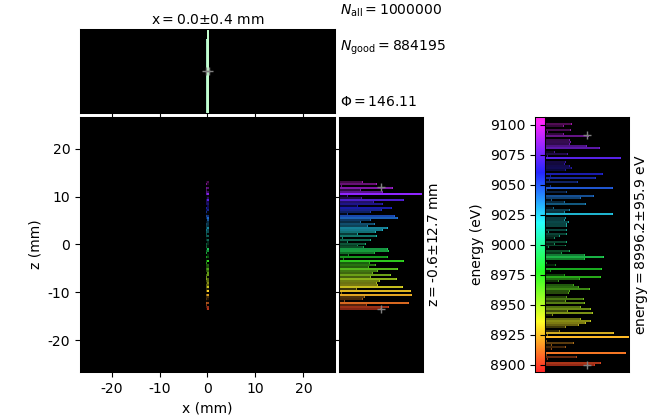
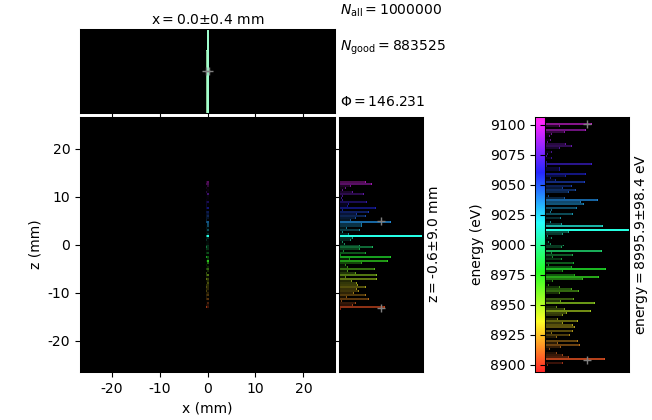
added alignment interface and grid search

diff --git a/full_simulator/simple_optimizer.py b/full_simulator/simple_optimizer.py
@@ -1,0 +1,44 @@
+import numpy as np
+
+def random_search(task, n_trials=100):
+    """Simple random optimizer to test the task interface."""
+    bounds = task.get_bounds()
+    best_dofs = None
+    best_cost = float("inf")
+
+    for _ in range(n_trials):
+        candidate = [np.random.uniform(low, high) for (low, high) in bounds]
+        task.set_dofs(candidate)
+        cost = task.evaluate_objective()
+
+        print(f"Random trial {_} DoFs: {candidate}")
+        print(f"Random trial {_} cost: {cost}")
+        print("--------------------------------")
+        
+        if cost < best_cost:
+            best_cost = cost
+            best_dofs = candidate
+
+    return best_dofs, best_cost
+
+
+def grid_search(task, points_per_dim=5):
+    """Grid search optimizer for the task interface. Tries all combinations of evenly spaced points in each dimension."""
+    bounds = task.get_bounds()
+    grid_axes = [np.linspace(low, high, points_per_dim) for (low, high) in bounds]
+    mesh = np.meshgrid(*grid_axes)
+    grid_points = np.stack([m.flatten() for m in mesh], axis=-1)
+    best_dofs = None
+    best_cost = float("inf")
+    for i, candidate in enumerate(grid_points):
+        task.set_dofs(candidate)
+        cost = task.evaluate_objective()
+        print(f"Grid trial {i} DoFs: {candidate}")
+        print(f"Grid trial {i} cost: {cost}")
+        print("--------------------------------")
+        if cost < best_cost:
+            best_cost = cost
+            best_dofs = candidate
+    return best_dofs, best_cost
+
+

diff --git a/full_simulator/alignment_interface.py b/full_simulator/alignment_interface.py
@@ -1,0 +1,45 @@
+import numpy as np
+
+class AlignmentTask:
+    """Base class for all alignment tasks."""
+    def __init__(self, sim):
+        self.sim = sim
+
+    def get_dofs(self):
+        raise NotImplementedError
+
+    def set_dofs(self, values):
+        raise NotImplementedError
+
+    def get_observation(self):
+        raise NotImplementedError
+
+    def evaluate_objective(self):
+        raise NotImplementedError
+
+    def get_bounds(self):
+        raise NotImplementedError
+
+class UndulatorPointingTask(AlignmentTask):
+    def get_dofs(self):
+        ax = self.sim.beam_params['ax']
+        ay = self.sim.beam_params['ay']
+        return [ax, ay]
+
+    def set_dofs(self, values):
+        ax, ay = values
+        self.sim.undulator_pointing(ax=ax, ay=ay)
+        self.sim.propagate()
+
+    def get_observation(self):
+        cx = self.sim.beamline.hx2_shared.cx
+        cy = self.sim.beamline.hx2_shared.cy
+        return [cx, cy]
+
+    def evaluate_objective(self):
+        cx, cy = self.get_observation()
+        return np.sqrt(cx**2 + cy**2)
+
+    def get_bounds(self):
+        return [(-2.5e-6, 2.5e-6), (-2.5e-6, 2.5e-6)]
+

diff --git a/full_simulator/runner.py b/full_simulator/runner.py
@@ -1,0 +1,20 @@
+from lcls_beamline_toolbox.models import mfx
+from alignment_interface import UndulatorPointingTask
+from simple_optimizer import grid_search
+
+def main():
+    # set up the simulator
+    mfx_sim = mfx.MFX(E0=9000, N=256)
+    mfx_sim.propagate()
+
+    # create the alignment task
+    task = UndulatorPointingTask(mfx_sim)
+
+    # run the optimizer
+    best_dofs, best_cost = grid_search(task, points_per_dim=5)
+    print("Best DoFs:", best_dofs)
+    print("Minimum Cost:", best_cost)
+    print("--------------------------------")
+
+if __name__ == "__main__":
+    main()

diff --git a/alignment.md b/alignment.md
@@ -1,0 +1,10 @@
+## Preparing standardized inputs/outputs for the optimization layer
+
+We're breaking down autoMFX alignment into a set of core tasks. For each one, we define the relevant DoFs, diagnostics, and optimization objectives. The table below lays this out in a unified format that will serve as the interface between the digital twin and the optimization layer.
+
+|              | Input                                                                                                                                                                                                                                                                                                                                                                   | Output                                                                                         | Objective                                                                                                                                                                        |
+|---------------------|------------------------------------------------------------------------------------------------------------------------------------------------------------------------------------------------------------------------------------------------------------------------------------------------------------------------------------------------------------------------|----------------------------------------------------------------------------------------------------|----------------------------------------------------------------------------------------------------------------------------------------------------------------------------------|
+| **Undulator Pointing** | • Get via: `mfx_sim.beam_params['ax']`, `['ay']`  <br> • Set via: `mfx_sim.undulator_pointing(ax=..., ay=...)`  <br> • Units: radians (default: 0)  <br> • Bounds: `abs(ax), abs(ay) < 2.5e-6`                                                                                                                                                                         | • Position: `mfx_sim.beamline.hx2_shared.cx`, `cy` <br>                   | Minimize `sqrt(cx² + cy²)` <br> i.e., bring beam to (0,0) center                                                                                                                |
+| **Beam Steering**      | • Get via: `mfx_sim.mr1l4_pitch.wm()`  <br> • Set via: `mfx_sim.mr1l4_pitch.mv(...)` (absolute) or `.mvr(...)` (relative)  <br> • Bounds: must be scanned and manually set using `.set_low_limit()` and `.set_high_limit()`                                                                                                                                        | • Position: `mfx_sim.beamline.DG1_YAG.cx`, `cy`                                                    | Minimize `abs(cx)` <br> Only x varies significantly                                                                                                                            |
+| **Transfocator**       | • Identify active lenses: `for crl in mfx_sim.tfs_list: crl.enabled`  <br> • For each active CRL `i`: <br> &nbsp;&nbsp;• Get via: `mfx_sim.tfs_i_x.wm()`, `.tfs_i_y.wm()`  <br> &nbsp;&nbsp;• Set via: `mfx_sim.tfs_i_x.mv(...)`, `.tfs_i_y.mv(...)`  <br> • Bounds: also need to be manually explored and set                                                           | • Position: `mfx_sim.DG2_YAG.cx`, `cy` <br> • Shape (width): `wx`, `wy`                            | Minimize `sqrt(cx² + cy²)` + `abs(wx - wy)` <br> Ensures beam is centered and symmetric (circular spot)                                                                       |
+| **von Hamos**          | • After building beamline: `beamLine = vh.build_beamline(energy=mfx_sim.E0, beamH=wx, beamV=wy)`  <br> • DoF access: <br> &nbsp;&nbsp;• Get/Set: `beamLine.vonHamos01.center` (translation)  <br> &nbsp;&nbsp;`beamLine.vonHamos01.pitch`, `beamLine.vonHamos01.yaw`                                                                                                   | • Run ray tracing: <br> &nbsp;&nbsp;`vh.rrun.run_process = vh.run_process` <br> &nbsp;&nbsp;`plots = vh.define_plots()` <br> &nbsp;&nbsp;`vh.xrtrun.run_ray_tracing(...)` <br> • Extract: `plot.cx`, `cy`, `dx/2`, `dy/2` | Minimize `sqrt(cx² + cy²)` + `abs(dx)` <br> i.e., thin vertical strip centered on detector                                                                                     |
